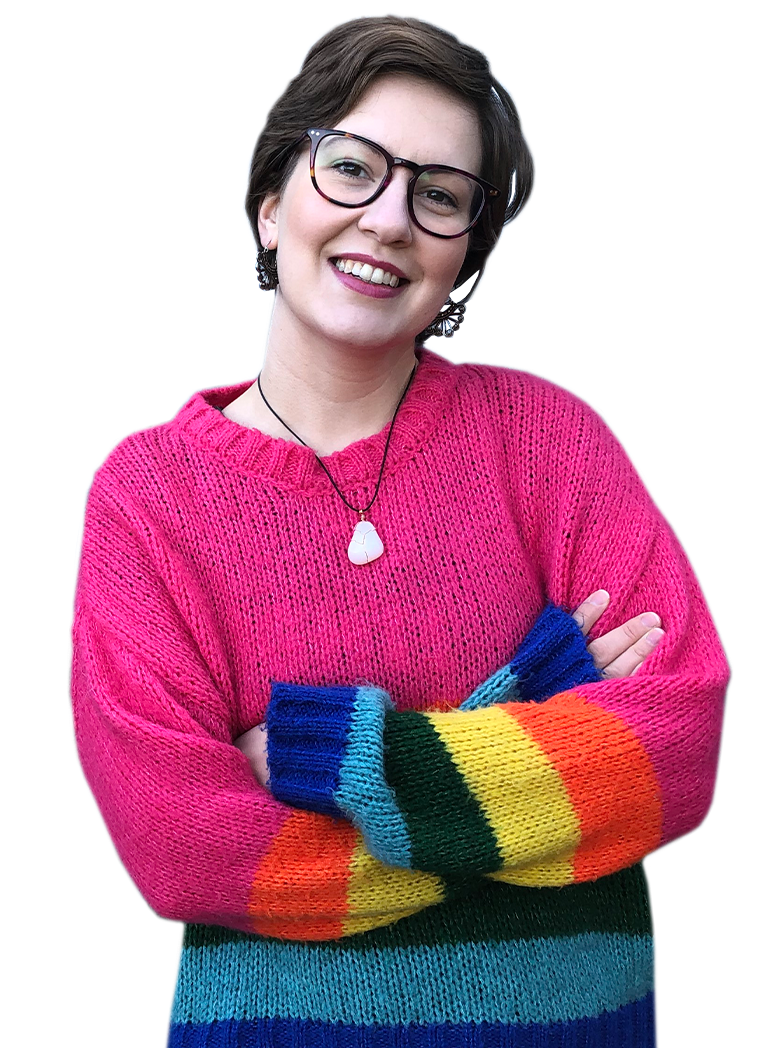
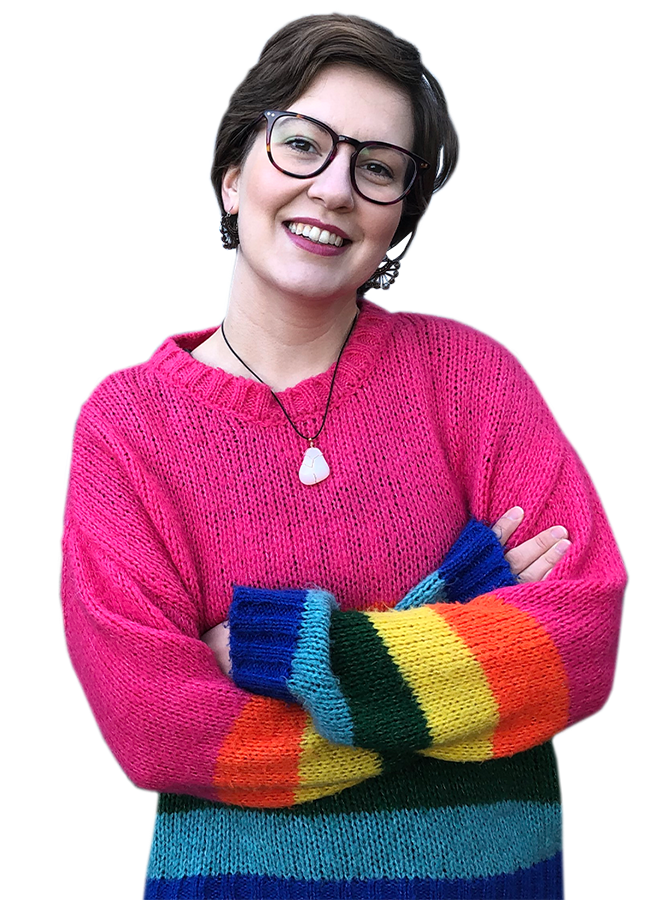
fix made to images on smaller screen sizes

diff --git a/news.html b/news.html
@@ -54,7 +54,7 @@
                 You can listen to the episode with Milly, or binge all the episodes by clicking <a class="link-plug" href="https://open.spotify.com/episode/2mhASYlpHZ4IpoMgu268ex?si=s5oLAM9VSdKwmTCH4UGozA" target="_blank"> here. </a>
                 </p>
             </div>
-            <div class="col-lg md-4">
+            <div class="col-lg md-4 align-self-center">
                 <a href="https://open.spotify.com/episode/2mhASYlpHZ4IpoMgu268ex?si=s5oLAM9VSdKwmTCH4UGozA" target="_blank">
                     <img class="news-img" src="assets/img/confidence-podcast.jpg" alt="Confidence For Breakfast Podcast" title="Confidence for Breakfast Podcast"/>
                 </a>
@@ -74,7 +74,7 @@
                 The set was recorded, so you can catch it in full by clicking on the Stand Up tab, or clicking <a class="link-plug" href="standup.html"> here. </a>
                 </p>
             </div>
-            <div class="col-lg">
+            <div class="col-lg align-self-center">
                 <a href="standup.html">
                     <img class="news-img" src="assets/img/burton-constable.jpeg" alt="Milly at Burton Constable for Hull Comedy Festival" title="Burton Constable"/>
                 </a>
@@ -91,7 +91,7 @@
                 The episode is available to watch on YouTube via this <a class="link-plug" target="_blank" href="https://www.youtube.com/watch?v=lAvvAn2BcFs"> link. </a>
                 </p>
             </div>
-            <div class="col-lg">
+            <div class="col-lg align-self-center">
                 <a href="https://www.youtube.com/watch?v=lAvvAn2BcFs" target="_blank">
                     <img class="news-img" src="assets/img/popped-culture.png" alt="Popped Culture Screenshot" title="Popped Culture"/>
                 </a>
@@ -109,7 +109,7 @@
                 You can listen to the episode, or any future episodes by clicking <a class="link-plug" href="https://anchor.fm/millyarmstrongclark#:~:text=Join%20Morale%20Queen%20and%20professional,pie%20to%20brighten%20your%20day!" target="_blank"> here. </a>
                 </p>
             </div>
-            <div class="col-lg">
+            <div class="col-lg align-self-center">
                 <a href="https://anchor.fm/millyarmstrongclark#:~:text=Join%20Morale%20Queen%20and%20professional,pie%20to%20brighten%20your%20day!" target="_blank">
                     <img class="news-img" src="assets/img/morale-queen-podcast.jpg" alt="Tea with the Morale Queen Podcast" title="Tea with the Morale Queen Podcast"/>
                 </a>

diff --git a/podcast.html b/podcast.html
@@ -43,13 +43,13 @@
                     <h2 class="uppercase">Tea with the Morale Queen</h2>
                         <p>Join Morale Queen and professional Tea Drinker Milly Armstrong-Clark as she interviews guests over a hot mug of tea with a big slice of morale pie to brighten your day!</p>
                         <br>
-                            <h3 class="uppercase">Latest Episode</h3>
-                            <iframe src="https://anchor.fm/millyarmstrongclark/embed" height="102px" width="300px" frameborder="0" scrolling="no"></iframe>
+                            <h3 class="sub-uppercase">Latest Episode</h3>
+                            <iframe src="https://anchor.fm/millyarmstrongclark/embed" height="102x" width="350px" frameborder="0" scrolling="no"></iframe>
                     </div>
                     <br>          
                     <div>
                         <div>
-                            <h3 class="uppercase">Where to listen</h3>
+                            <h3 class="sub-uppercase">Where to listen</h3>
                                 <ul class="podcast-icons">
                                     <li class="list-inline-item">
                                         <a target="_blank" href="https://podcasts.apple.com/gb/podcast/tea-with-the-morale-queen/id1513121966">
@@ -103,7 +103,7 @@
                             </div>
                             <br>
                             <div>
-                                <h3 class="uppercase">Support the Podcast</h3>
+                                <h3 class="sub-uppercase">Support the Podcast</h3>
                                 <button type="support" class="btn btn-support">
                                     <a href="https://anchor.fm/millyarmstrongclark/support"> Support </a>
                                 </button>
@@ -123,7 +123,9 @@
                 <div class="col">
                     <img class="bottom-image" src="assets/img/bottom.png" alt="Milly poking up her head" title="Milly Armstrong Clark"/>
                 </div>
-            </div>
+            </div> 
+
+
         </div>
 <!--/.section-->
 

diff --git a/contact.html b/contact.html
@@ -53,7 +53,7 @@
                     <br>
                     <input type="email" name="email" id="emailaddress" class="form-control" placeholder="Email Address" required/>
                     <br>
-                    <textarea rows="5" name="message" id="message" class="form-control" placeholder="Message" required></textarea>
+                    <textarea rows="7" name="message" id="message" class="form-control" placeholder="Message" required></textarea>
                     <div class="form-row text-center">
                         <div class="col">
                             <button type="submit" class="btn btn-secondary">Send Message</button>
@@ -61,6 +61,7 @@
                     </div>
                 </form>
             </div>
+            <br>
             <br>
         <div id="img-row" class="row">
             <div class="col">

diff --git a/assets/css/style.css b/assets/css/style.css
@@ -44,6 +44,10 @@ a {
     text-transform: uppercase;
 }
 
+.sub-uppercase {
+    text-transform: uppercase;
+}
+
 .inline-block {
     display: inline-block;
 }
@@ -314,10 +318,6 @@ button[type="submit"]:hover {
 
 @media all and (max-width : 768px) {
 
-    .section #section-fit {
-    max-width: 90%;
-}
-
 	nav {
 		margin: 0;
 	}
@@ -332,6 +332,10 @@ button[type="submit"]:hover {
 
     h1 {
         font-size: 500%;
+    }
+
+    .swap-on-hover img {
+        max-width: 80%;
     }
 
     /* Credit to Andor Nagy for the responsive navbar that was used as a guideline and adapted for this project */
@@ -353,7 +357,7 @@ button[type="submit"]:hover {
 		background-color: #7600e4;
 	}
 
-	/* Display Dropdown when clicked on Parent Lable */
+	/* Display Dropdown when clicked on Parent */
 	[id^=drop]:checked + ul {
 		display: block;
 	}

diff --git a/README.md b/README.md
@@ -133,8 +133,8 @@ The report brought back the following results.
 
 ![The report brought back the following results](assets/docs/lighthouse.png)
 
-It was clear there was work to be done on improving the site's performance, an issue that likely arose from the use of jpeg and png files instead of jpeg2000 throughout the site, including the main background image. 
-As such, these images were replaced with jpeg2000 images, which brought reduced the latency issue that had previously existed.
+It was clear there was work to be done on improving the site's performance, especially with the hover image on the home page. 
+Upon review of the images, it was discovered that both were over 1mb each, so the images were resized to bring both under the 1mb mark.
 
 ## Site Containers
 
